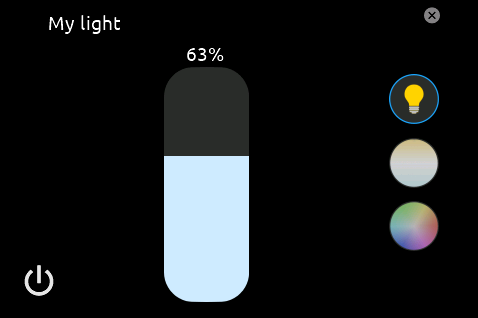
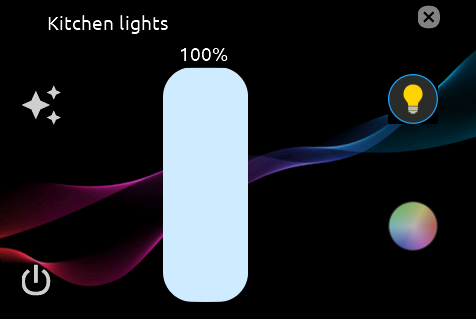
Update docs

diff --git a/hmi/dev/manuals_screenshots.md b/hmi/dev/manuals_screenshots.md
@@ -230,3 +230,75 @@ notifi_label.txt="My sensor name"
 notifi_text01.txt="1115.4 kWh"
 notifi_text01.font=6
 ```
+
+## Light page
+
+For screenshots captured in the simulator, set `display_mode` explicitly
+because the simulator has no EEPROM to read from.
+Replace `hard_coded_display_mode` with the value matching your target build:
+`0` for EU landscape, `1` for US portrait, `2` for US landscape.
+
+```nextion
+api=1
+display_mode=hard_coded_display_mode
+page light
+back_page_id=0
+lightslider.val=100
+light_value.txt="100%"
+light_value_2.txt="100%"
+page_label.txt="Kitchen lights"
+icon_state.txt=""
+vis lightslider,1
+vis color_button,1
+vis color_touch,1
+vis effect_button,1
+```
+
+![Light EU](../../docs/pics/eu_light.png)
+
+![Light US](../../docs/pics/us_light.png)
+
+## Light effect selector
+
+Shows the effect picker overlaid on top of the light page.
+The light page is constructed first, then the popup_select page is
+populated with eight effect options and Pulse highlighted as the
+current selection.
+
+```nextion
+api=1
+display_mode=hard_coded_display_mode
+page light
+back_page_id=0
+lightslider.val=100
+light_value.txt="100%"
+light_value_2.txt="100%"
+page_label.txt="Kitchen lights"
+icon_state.txt=""
+vis lightslider,1
+vis color_button,1
+vis color_touch,1
+vis effect_button,1
+doevents
+delay 1000
+page popup_select
+caller_page_id.val=10
+select_mode.val=0
+opt_count.val=8
+total_count.val=8
+selection_mask.val=8
+lbl_title.txt="Select effect"
+opt0.txt="None"
+opt1.txt="Rainbow"
+opt2.txt="Fireplace"
+opt3.txt="Pulse"
+opt4.txt="Strobe"
+opt5.txt="Candle"
+opt6.txt="Police"
+opt7.txt="Party"
+init.en=1
+```
+
+![Light effect selector EU](../../docs/pics/eu_light_effect_selector.png)
+
+![Light effect selector US](../../docs/pics/us_light_effect_selector.png)

diff --git a/README.md b/README.md
@@ -179,9 +179,14 @@ Quick links for the most common needs:
 
 ### Light Settings
 
+![Light EU](docs/pics/eu_light.png)
+
+![Light US](docs/pics/us_light.png)
+
 - Current light state and brightness slider
 - RGB color wheel for color selection
 - Color temperature slider
+- Effect selector for lights that support effects
 - Quick navigation back to the originating button page
 
 ### Cover Settings